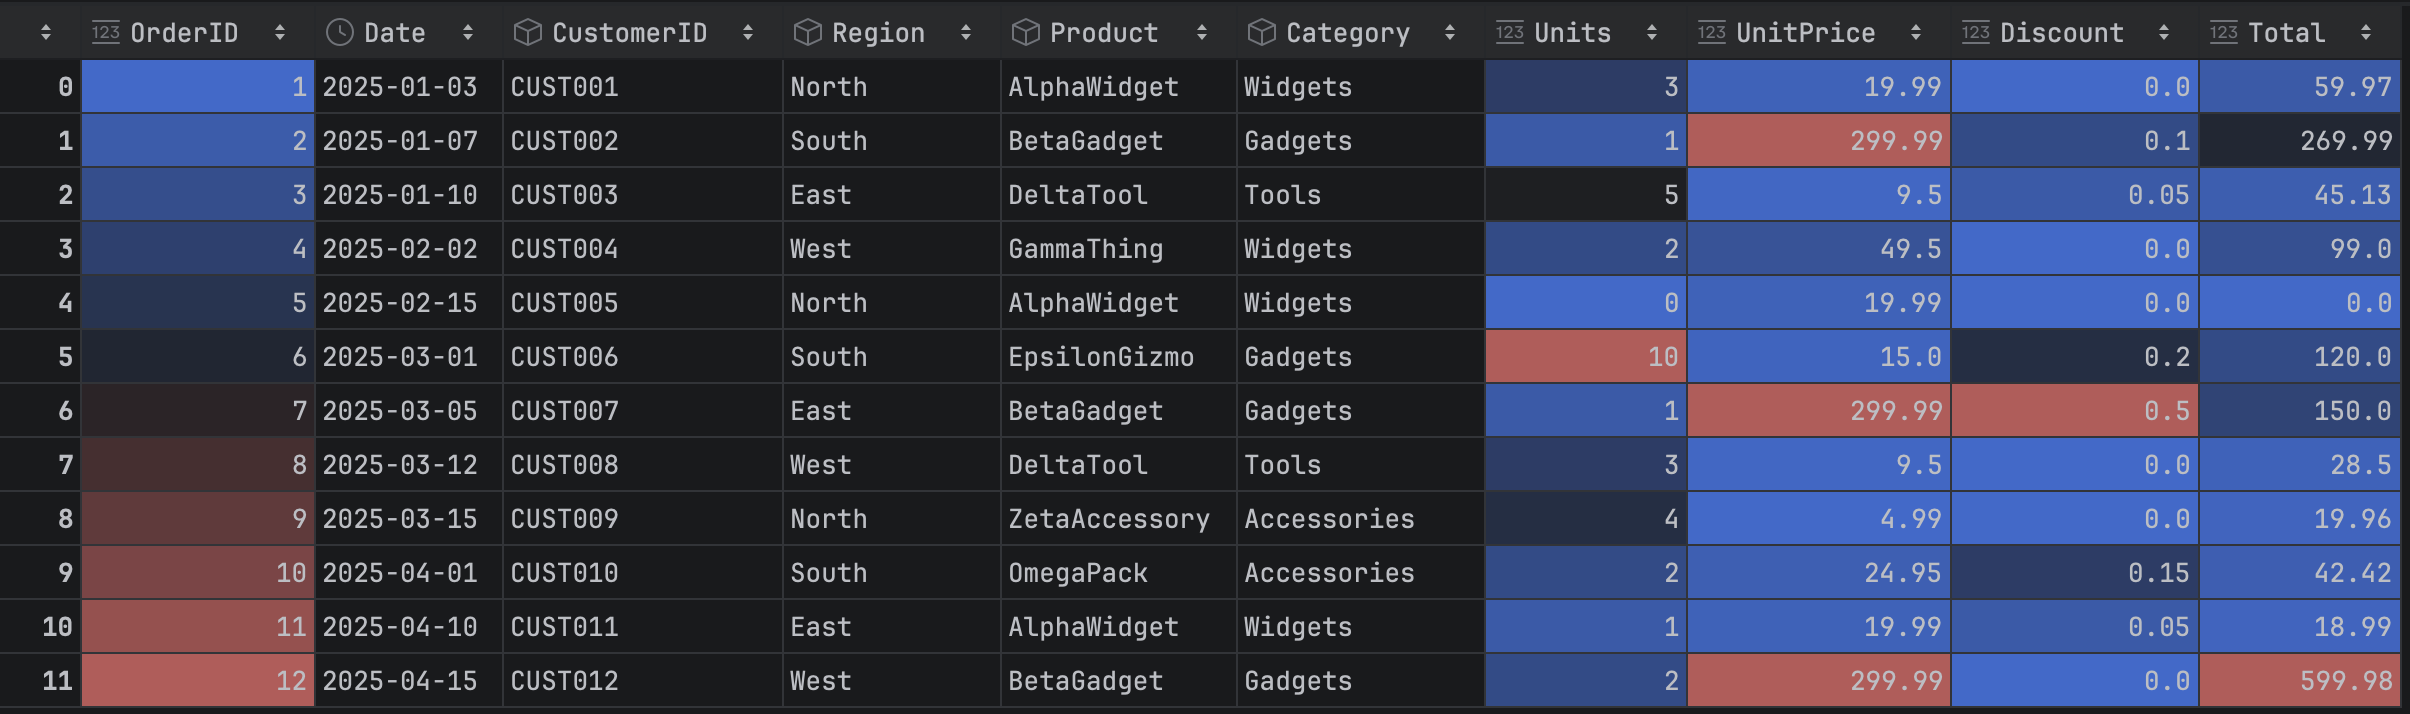
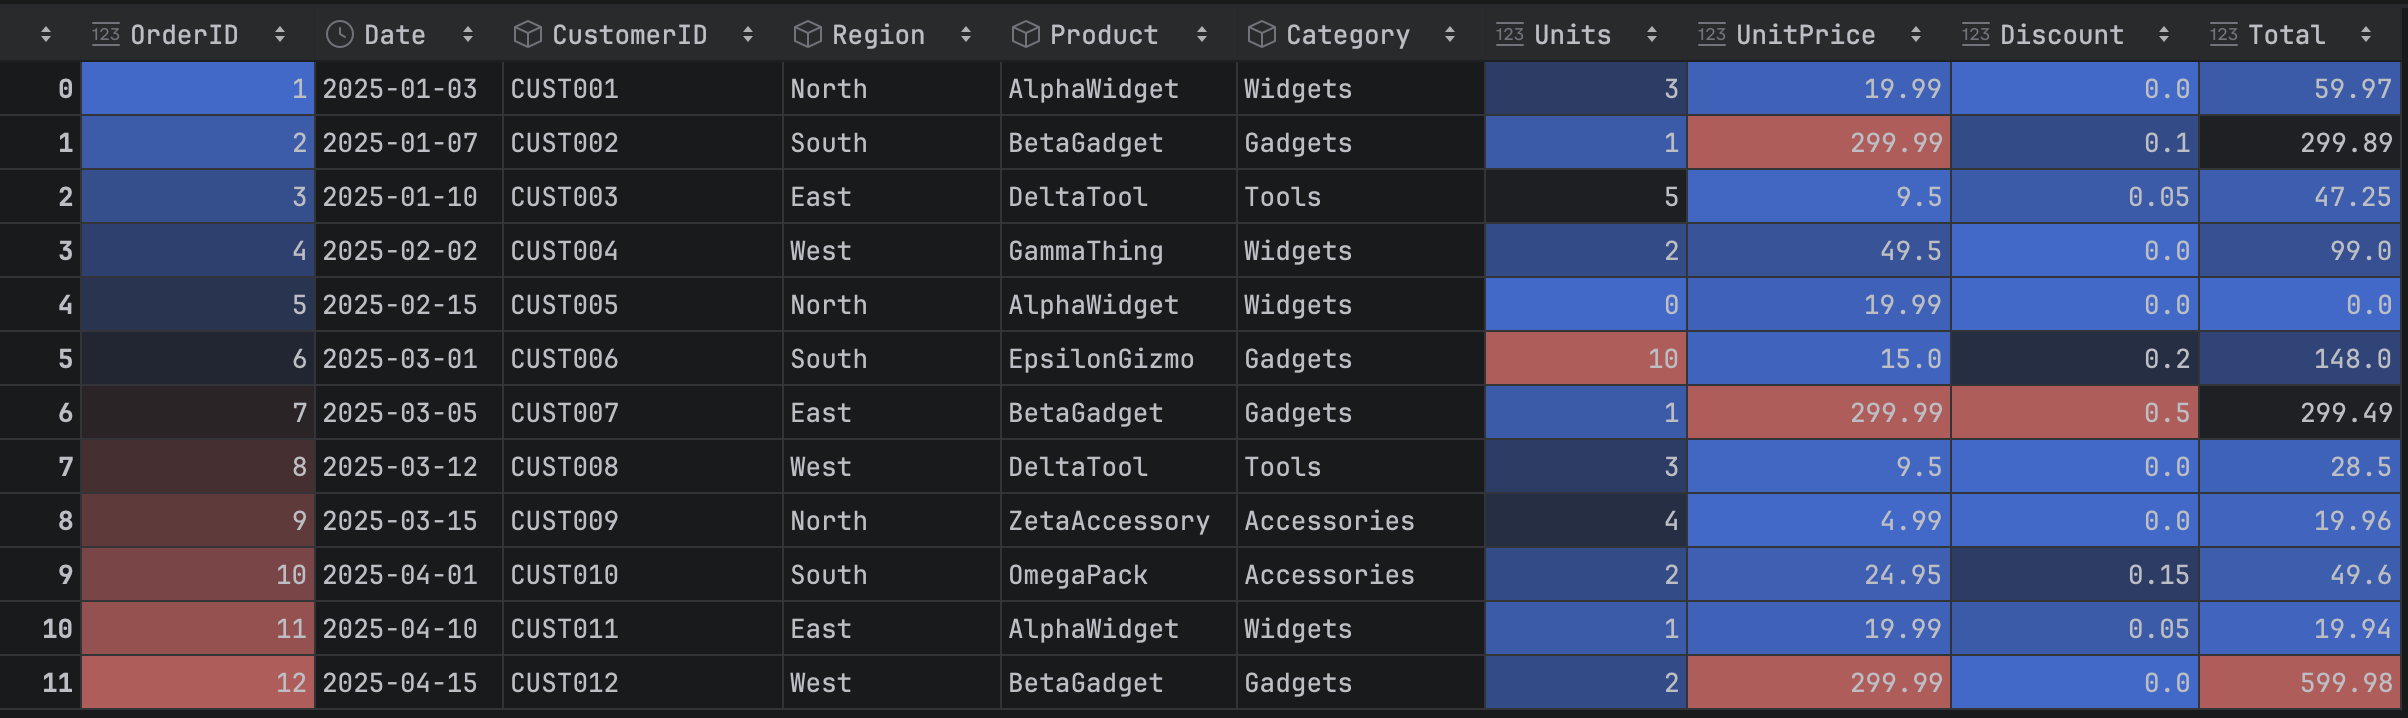
including totals calculation

diff --git a/main.py b/main.py
@@ -28,6 +28,14 @@ def main():
     # Make all of the Category column proper case.
     sales_data_df["Category"] = sales_data_df["Category"].str.title()
 
+    # Calculate Total for each row.
+    sales_data_df["Total"] = sales_data_df["Units"] * sales_data_df["UnitPrice"] - (sales_data_df["Units"] * sales_data_df["Discount"])
+    # Round Total to 2 decimal places.
+    sales_data_df["Total"] = sales_data_df["Total"].round(2)
+
+    # Output cleaned data to a new CSV file.
+    sales_data_df.to_csv("./data/cleaned_sample_sales.csv", index=False)
+
     # Print the first 5 rows.
     print(sales_data_df.head())
 
